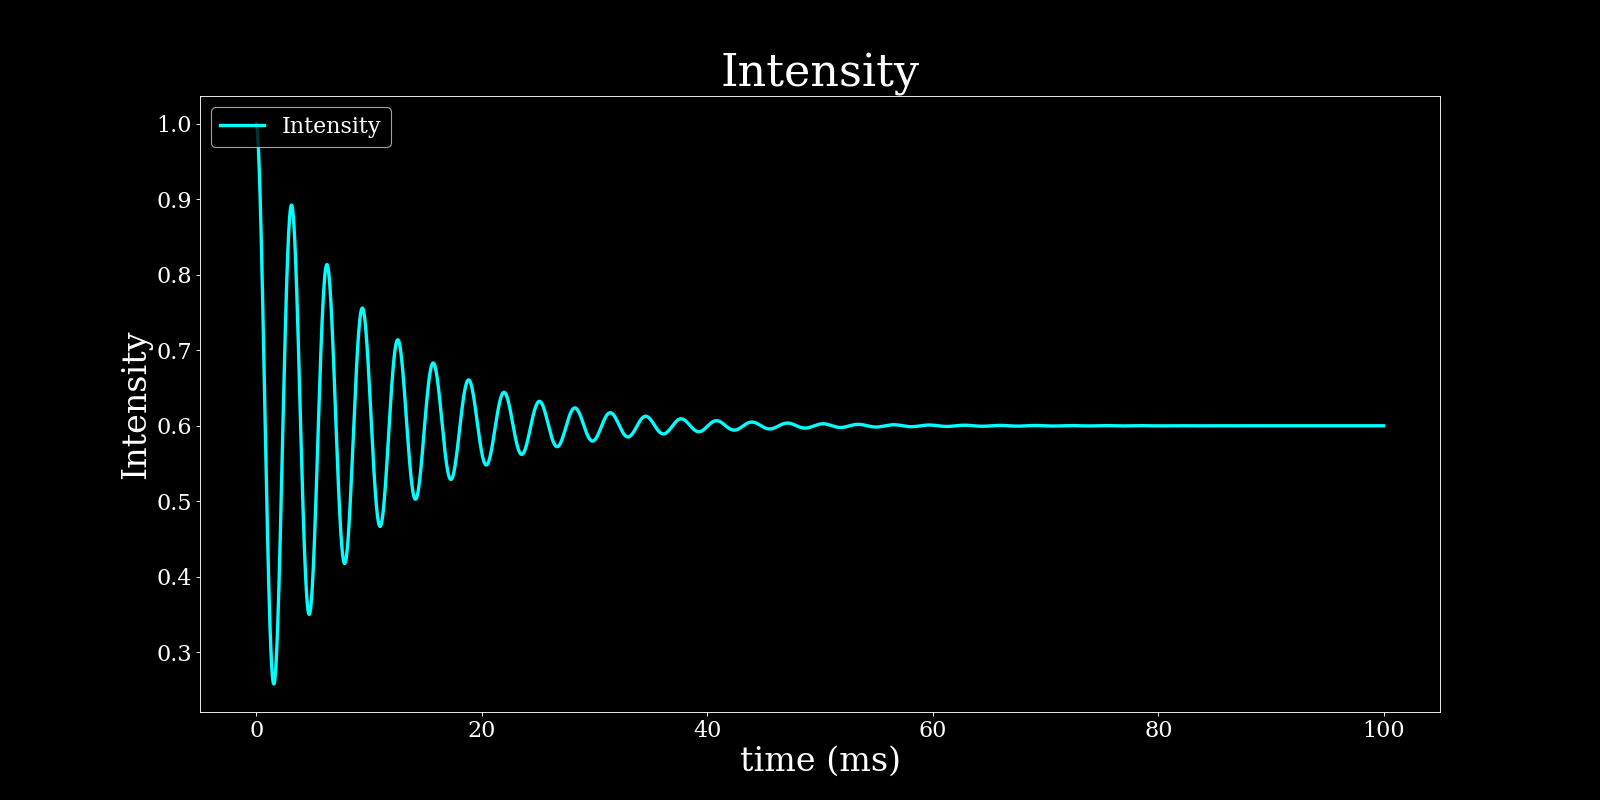
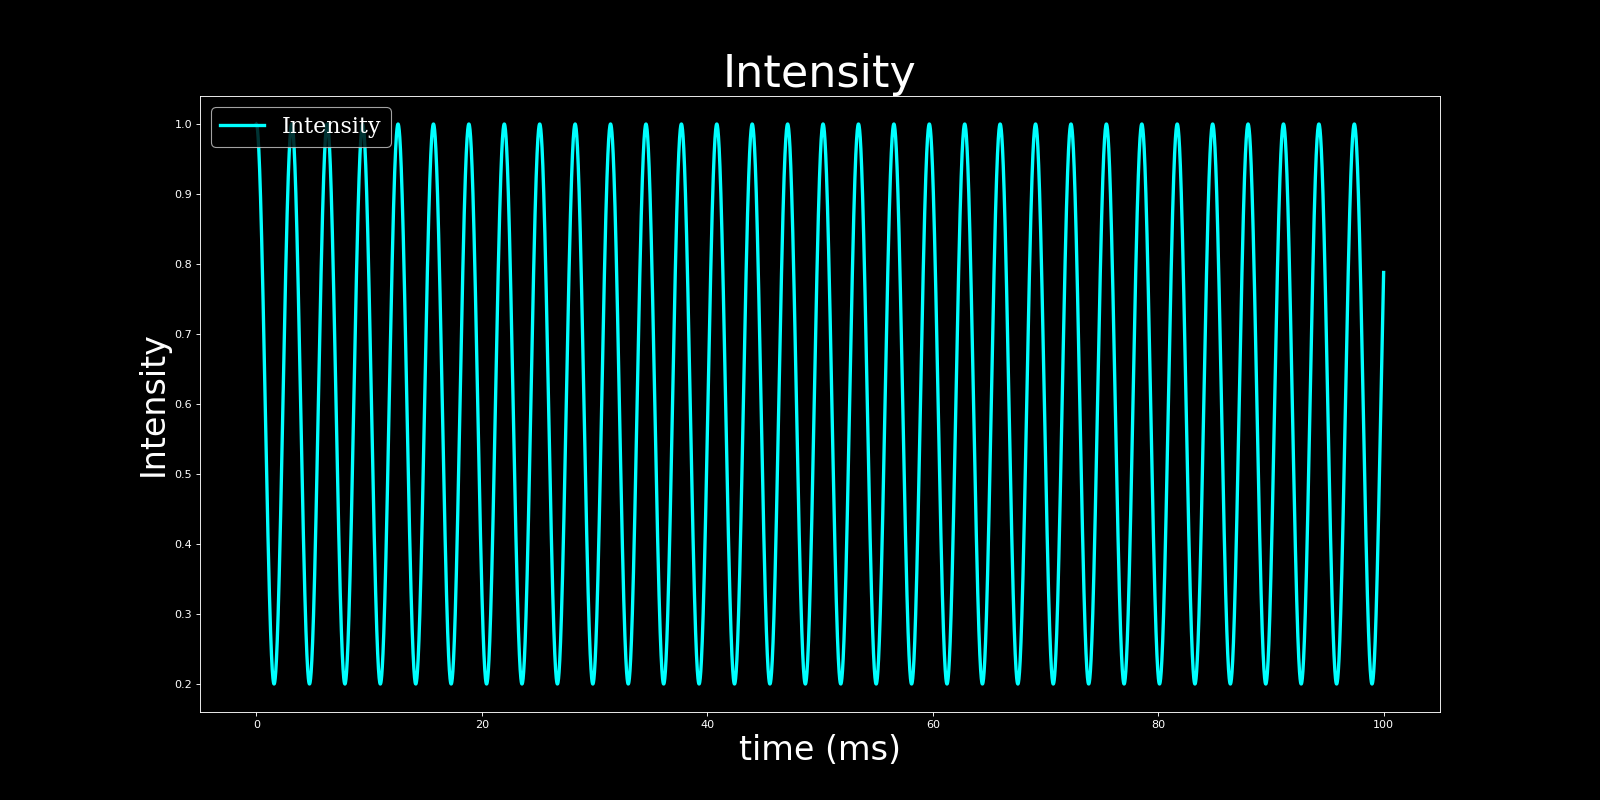
Update data

diff --git a/src/models/cdfm/cdfm.py b/src/models/cdfm/cdfm.py
@@ -67,7 +67,7 @@ def train(args):
     setup_logging(args.run_name)
     device = args.device
     dataloader = args.dataloader
-    model = UNet_conditional(num_classes=args.num_classes).to(device)
+    model = UNet_conditional(num_classes=args.num_classes, device=device).to(device)
     optimizer = optim.AdamW(model.parameters(), lr=args.lr)
     mse = nn.MSELoss()
     diffusion = Diffusion(img_size=args.image_size, device=device)

diff --git a/Data/genData.py b/Data/genData.py
@@ -29,7 +29,8 @@ def generateDynamics(max=1, min=0):
     t = np.arange(0,100, 1/100)
     m = (max-min)/(1-(-1))
     b= max - m
-    a = m*np.exp(-0.1*t)*np.cos(2*t)+b
+    #a = m*np.exp(-0.1*t)*np.cos(2*t)+b
+    a = m*np.cos(2*t)+b
     
     X = []
     X.append( { 'x': t, 'y': a, 'label': 'Intensity'} )
